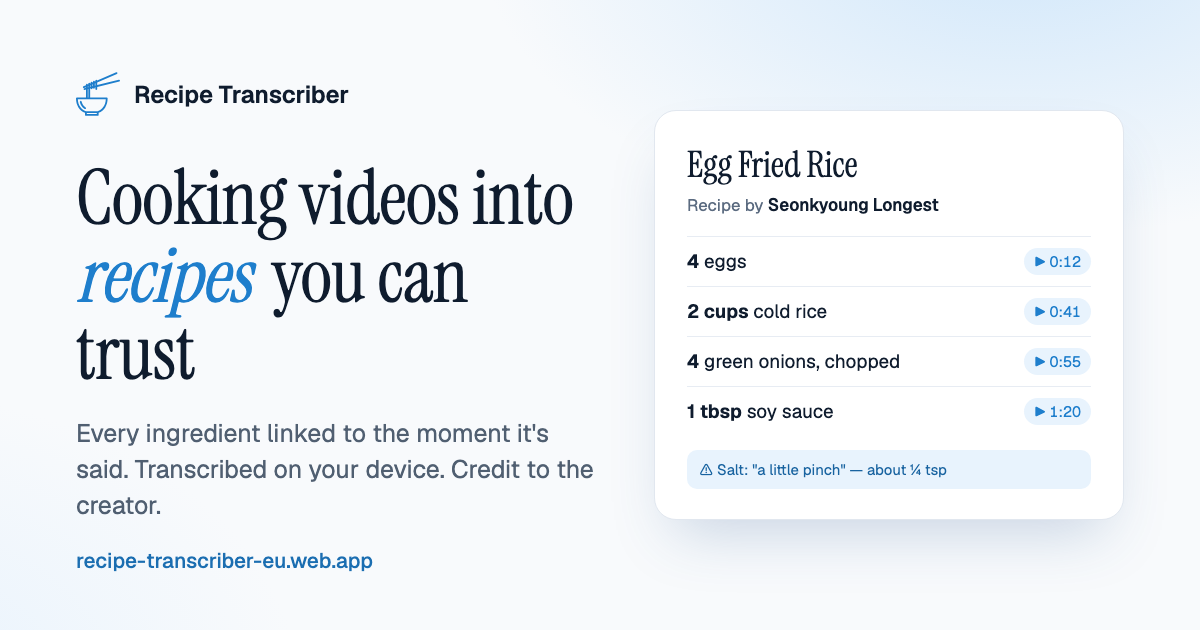
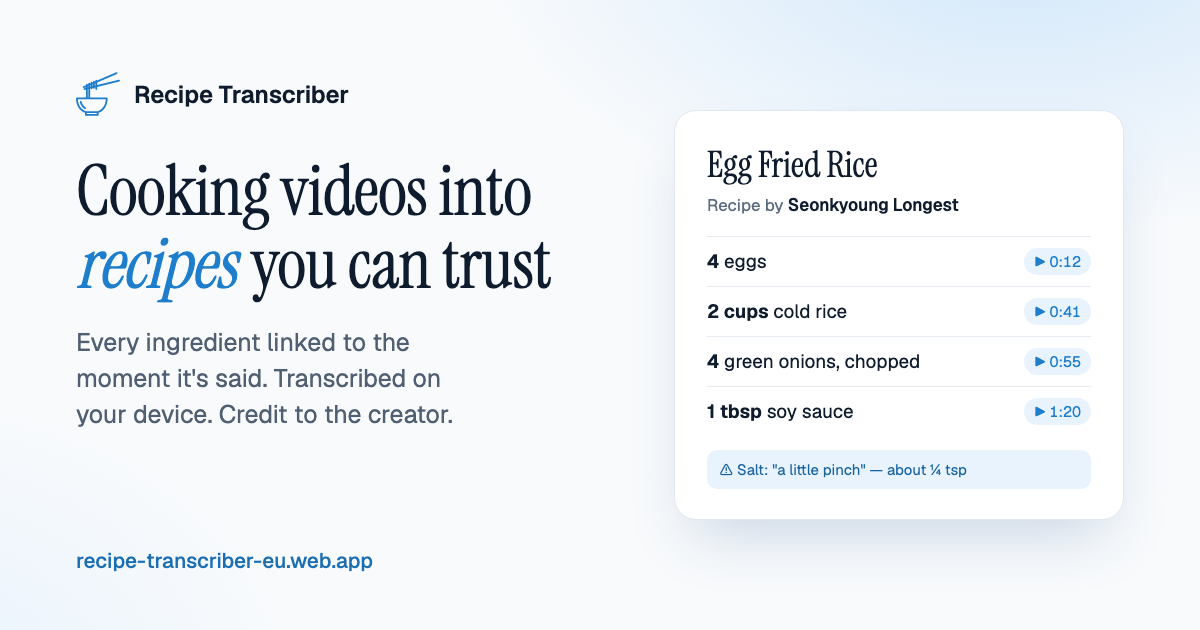
Fix the homepage preview card: two-line headline, balanced tagline; bust LinkedIn's image cache

diff --git a/web/og/og-card.html b/web/og/og-card.html
@@ -11,13 +11,13 @@ body {
   font-family: Geist, system-ui, sans-serif; color: hsl(216 50% 12%);
   background: radial-gradient(900px 500px at 85% -10%, hsl(208 81% 90%), transparent 60%),
               radial-gradient(700px 500px at -10% 110%, hsl(209 84% 95%), transparent 60%), hsl(210 40% 98%);
-  display: grid; grid-template-columns: 1fr 470px; gap: 56px; padding: 72px 76px; box-sizing: border-box;
+  display: grid; grid-template-columns: 1fr 450px; gap: 48px; padding: 72px 76px; box-sizing: border-box;
 }
 .brand { display: flex; align-items: center; gap: 14px; font-weight: 600; font-size: 24px; }
 .brand svg { width: 44px; height: 44px; color: hsl(207 74% 46%); }
-h1 { font-family: Instrument, Georgia, serif; font-weight: 400; font-size: 76px; line-height: 1.02; letter-spacing: -0.5px; margin: 44px 0 22px; }
-h1 em { font-style: italic; color: hsl(207 74% 46%); padding-right: 0.12em; }
-p { font-size: 25px; line-height: 1.45; color: hsl(214 17% 38%); margin: 0; max-width: 560px; }
+h1 { font-family: Instrument, Georgia, serif; font-weight: 400; font-size: 70px; line-height: 1.04; letter-spacing: -0.6px; margin: 40px 0 22px; }
+h1 em { font-style: italic; color: hsl(207 74% 46%); padding-right: 0.06em; }
+p { font-size: 25px; line-height: 1.45; color: hsl(214 17% 38%); margin: 0; max-width: 560px; text-wrap: balance; }
 .url { position: absolute; left: 76px; bottom: 56px; font-size: 21px; color: hsl(207 74% 40%); font-weight: 500; }
 .card { align-self: center; background: white; border: 1px solid hsl(214 32% 91%); border-radius: 22px; padding: 30px 32px;
   box-shadow: 0 30px 60px -20px hsl(213 50% 40% / .25); }

diff --git a/web/index.html b/web/index.html
@@ -13,14 +13,14 @@
     <meta property="og:title" content="Recipe Transcriber — cooking videos into recipes you can trust" />
     <meta property="og:description" content="Every ingredient linked to the moment it's said. Transcribed on your device. Credit to the creator. Free to try." />
     <meta property="og:url" content="https://recipe-transcriber-eu.web.app/" />
-    <meta property="og:image" content="https://recipe-transcriber-eu.web.app/og-image.png" />
+    <meta property="og:image" content="https://recipe-transcriber-eu.web.app/og-image.png?v=2" />
     <meta property="og:image:width" content="1200" />
     <meta property="og:image:height" content="630" />
     <meta property="og:image:alt" content="Recipe Transcriber: a recipe card with ingredients linked to video timestamps" />
     <meta name="twitter:card" content="summary_large_image" />
     <meta name="twitter:title" content="Recipe Transcriber — cooking videos into recipes you can trust" />
     <meta name="twitter:description" content="Every ingredient linked to the moment it's said. Transcribed on your device. Credit to the creator." />
-    <meta name="twitter:image" content="https://recipe-transcriber-eu.web.app/og-image.png" />
+    <meta name="twitter:image" content="https://recipe-transcriber-eu.web.app/og-image.png?v=2" />
   </head>
   <body>
     <div id="root"></div>
